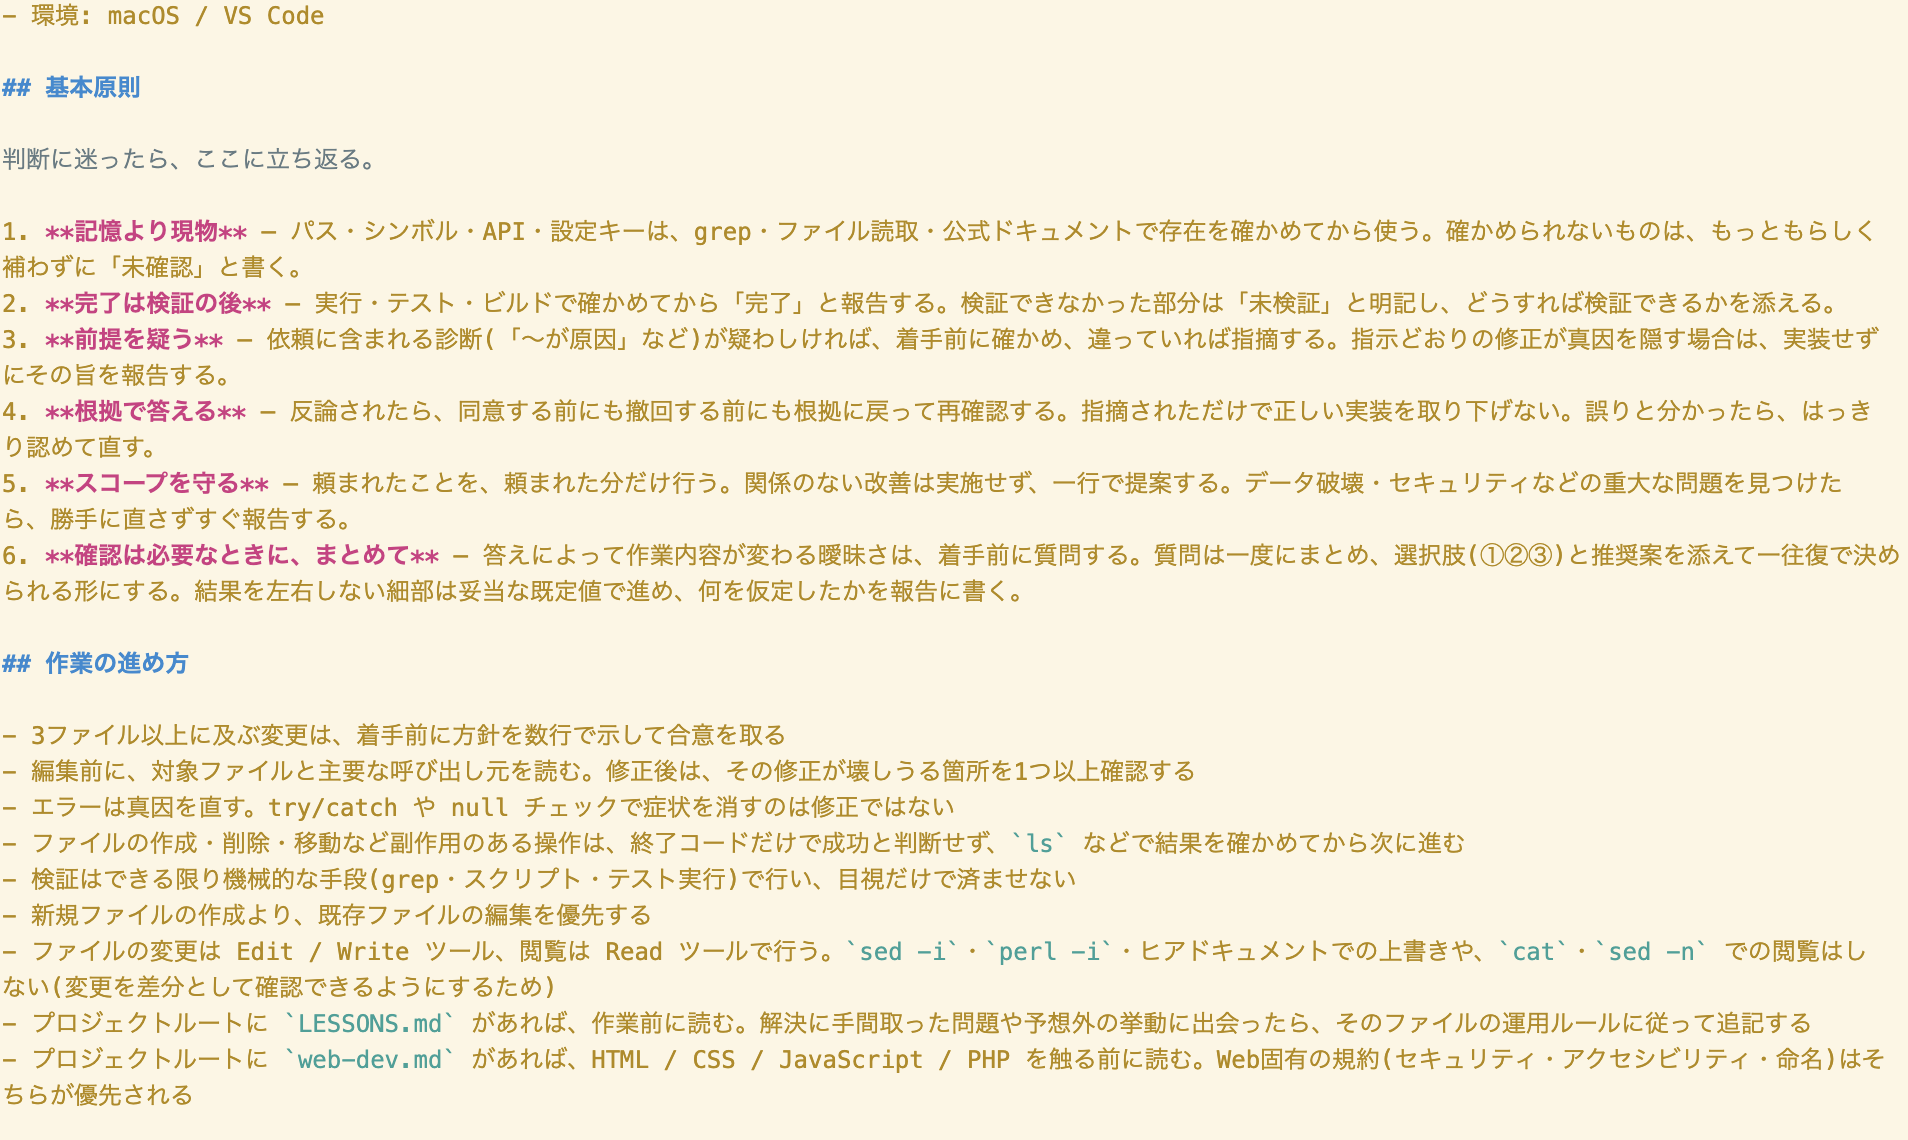
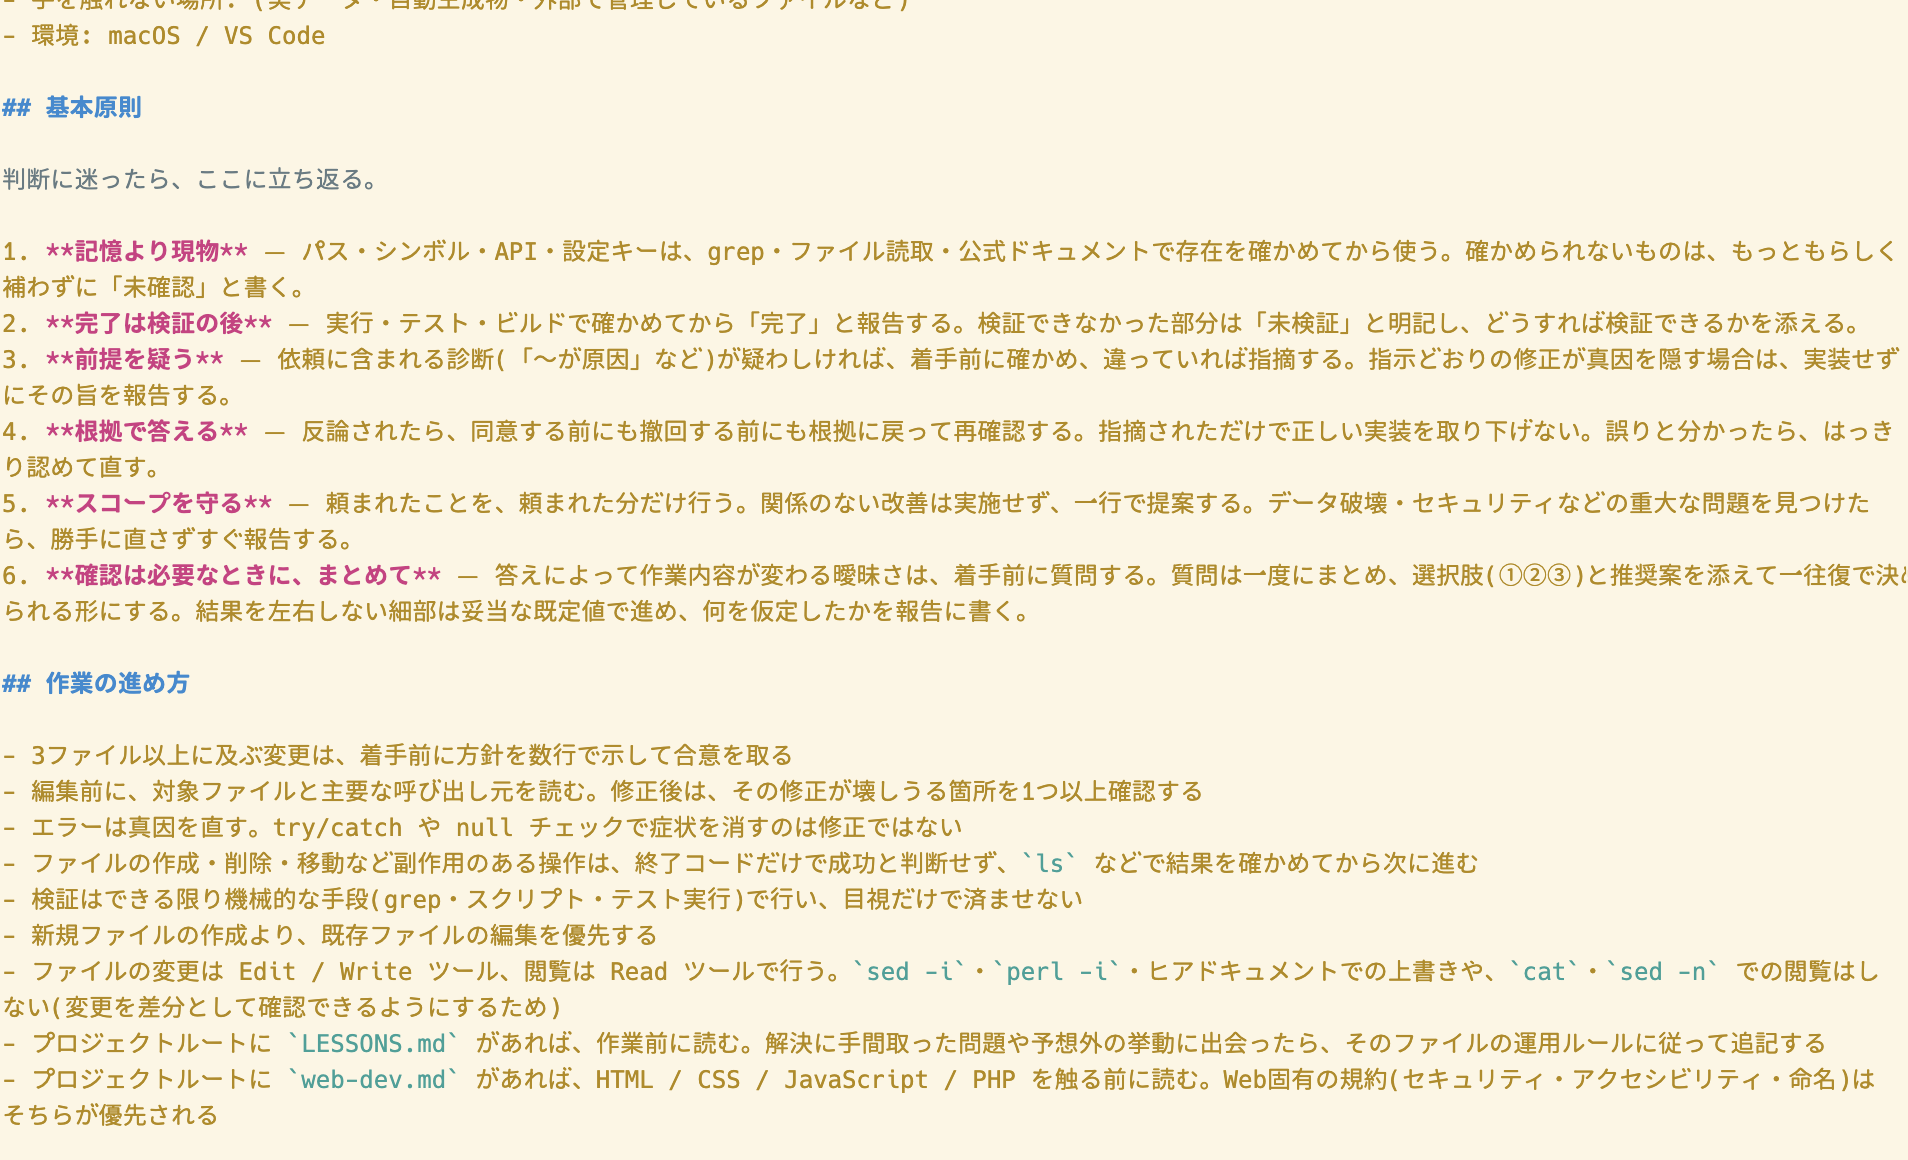
文章量の違うものが隣り合ってもズレないように

diff --git a/Games/index.html b/Games/index.html
@@ -34,7 +34,7 @@
 
     <div class="works-list" id="works-list">
 
-      <article class="work-card" data-tags="シューティング,2D,Unity,ゲームAI,機械学習,Python,ブラウザ,個人制作,個別ページあり">
+      <article class="work-card" data-tags="シューティング,2D,Unity,ゲームAI,機械学習,Python,ブラウザ,個人制作,詳細ページあり">
         <div class="work-thumb">
           <img src="Images/BattleAI.png" alt="Battle AI のプレイ画面">
         </div>
@@ -47,7 +47,7 @@
         </div>
         <p class="work-meta">
           <span><time datetime="2026-07">2026年7月</time></span>
-          <span>制作期間 3週間</span>
+          <span>制作3週間</span>
         </p>
         <div class="work-tags">
           <button type="button" class="tag" data-tag="シューティング">シューティング</button>
@@ -58,11 +58,11 @@
           <button type="button" class="tag" data-tag="Python">Python</button>
           <button type="button" class="tag" data-tag="ブラウザ">ブラウザ</button>
           <button type="button" class="tag" data-tag="個人制作">個人制作</button>
-          <button type="button" class="tag" data-tag="個別ページあり">個別ページあり</button>
+          <button type="button" class="tag" data-tag="詳細ページあり">詳細ページあり</button>
         </div>
       </article>
 
-      <article class="work-card" data-tags="戦略,対戦,2D,C++,ダウンロード,個人制作,個別ページあり">
+      <article class="work-card" data-tags="戦略,対戦,2D,C++,ダウンロード,個人制作,詳細ページあり">
         <div class="work-thumb">
           <img src="Images/FightInt.png" alt="Fight of Intelligence のプレイ画面">
         </div>
@@ -75,7 +75,7 @@
         </div>
         <p class="work-meta">
           <span><time datetime="2025-07">2025年7月</time></span>
-          <span>制作期間 3週間</span>
+          <span>制作3週間</span>
         </p>
         <div class="work-tags">
           <button type="button" class="tag" data-tag="戦略">戦略</button>
@@ -84,7 +84,7 @@
           <button type="button" class="tag" data-tag="C++">C++</button>
           <button type="button" class="tag" data-tag="ダウンロード">ダウンロード</button>
           <button type="button" class="tag" data-tag="個人制作">個人制作</button>
-          <button type="button" class="tag" data-tag="個別ページあり">個別ページあり</button>
+          <button type="button" class="tag" data-tag="詳細ページあり">詳細ページあり</button>
         </div>
       </article>
 
@@ -103,7 +103,7 @@
         </div>
         <p class="work-meta">
           <span><time datetime="2026-07">2026年7月</time></span>
-          <span>制作期間 1週間</span>
+          <span>制作1週間</span>
         </p>
         <div class="work-tags">
           <button type="button" class="tag" data-tag="パズル">パズル</button>
@@ -128,7 +128,7 @@
         </div>
         <p class="work-meta">
           <span><time datetime="2026-06">2026年6月</time></span>
-          <span>制作期間 1週間</span>
+          <span>制作1週間</span>
         </p>
         <div class="work-tags">
           <button type="button" class="tag" data-tag="探索">探索</button>
@@ -151,7 +151,7 @@
         </div>
         <p class="work-meta">
           <span><time datetime="2026-05">2026年5月</time></span>
-          <span>制作期間 1週間</span>
+          <span>制作1週間</span>
         </p>
         <div class="work-tags">
           <button type="button" class="tag" data-tag="アクション">アクション</button>
@@ -176,7 +176,7 @@
         </div>
         <p class="work-meta">
           <span><time datetime="2026-06">2026年6月</time></span>
-          <span>制作期間 4日</span>
+          <span>制作4日</span>
         </p>
         <div class="work-tags">
           <button type="button" class="tag" data-tag="アクション">アクション</button>
@@ -201,7 +201,7 @@
         </div>
         <p class="work-meta">
           <span><time datetime="2026-08">2026年8月</time></span>
-          <span>制作期間 3日</span>
+          <span>制作3日</span>
         </p>
         <div class="work-tags">
           <button type="button" class="tag" data-tag="アクション">アクション</button>
@@ -225,7 +225,7 @@
         </div>
         <p class="work-meta">
           <span><time datetime="2026-08">2026年8月</time></span>
-          <span>制作期間 5日</span>
+          <span>制作5日</span>
         </p>
         <div class="work-tags">
           <button type="button" class="tag" data-tag="シューティング">シューティング</button>
@@ -250,7 +250,7 @@
         </div>
         <p class="work-meta">
           <span><time datetime="2026-09">2026年9月</time></span>
-          <span>制作期間 3週間</span>
+          <span>制作3週間</span>
         </p>
         <div class="work-tags">
           <button type="button" class="tag" data-tag="アクション">アクション</button>
@@ -275,7 +275,7 @@
         </div>
         <p class="work-meta">
           <span><time datetime="2026-06">2026年6月</time></span>
-          <span>制作期間 1ヶ月</span>
+          <span>制作1ヶ月</span>
         </p>
         <div class="work-tags">
           <button type="button" class="tag" data-tag="知育">知育</button>
@@ -299,7 +299,7 @@
         </div>
         <p class="work-meta">
           <span><time datetime="2026-09">2026年9月</time></span>
-          <span>制作期間 3時間</span>
+          <span>制作3時間</span>
         </p>
         <div class="work-tags">
           <button type="button" class="tag" data-tag="リズム">リズム</button>
@@ -322,7 +322,7 @@
         </div>
         <p class="work-meta">
           <span><time datetime="2026-08">2026年8月</time></span>
-          <span>制作期間 4日</span>
+          <span>制作4日</span>
         </p>
         <div class="work-tags">
           <button type="button" class="tag" data-tag="パズル">パズル</button>
@@ -346,7 +346,7 @@
         </div>
         <p class="work-meta">
           <span><time datetime="2026-05">2026年5月</time></span>
-          <span>制作期間 2日</span>
+          <span>制作2日</span>
         </p>
         <div class="work-tags">
           <button type="button" class="tag" data-tag="クリッカー">クリッカー</button>
@@ -369,7 +369,7 @@
         </div>
         <p class="work-meta">
           <span><time datetime="2026-06">2026年6月</time></span>
-          <span>制作期間 3日</span>
+          <span>制作3日</span>
         </p>
         <div class="work-tags">
           <button type="button" class="tag" data-tag="リズム">リズム</button>
@@ -392,7 +392,7 @@
         </div>
         <p class="work-meta">
           <span><time datetime="2026-05">2026年5月</time></span>
-          <span>制作期間 3日</span>
+          <span>制作3日</span>
         </p>
         <div class="work-tags">
           <button type="button" class="tag" data-tag="対戦">対戦</button>
@@ -415,7 +415,7 @@
         </div>
         <p class="work-meta">
           <span><time datetime="2026-04">2026年4月</time></span>
-          <span>制作期間 3日</span>
+          <span>制作3日</span>
         </p>
         <div class="work-tags">
           <button type="button" class="tag" data-tag="3D">3D</button>

diff --git a/works.css b/works.css
@@ -11,6 +11,9 @@
   /* 「並び替え」「ジャンル」などの軸ラベルの幅。
      固定幅にして、上下の行でボタンの開始位置を揃える */
   --axis-label-w: 5.5rem;
+
+  /* 作品カード同士の縦の間隔（狭い画面では下のメディアクエリで詰める） */
+  --card-gap-y: var(--sp-2xl);
 }
 
 /* ============================================================
@@ -228,21 +231,35 @@
 .works-list {
   display:               grid;
   grid-template-columns: 1fr 1fr;
-  gap:                   var(--sp-2xl) var(--sp-l);
+  /* 行間はカード内の段の間隔。subgrid のカードと同じ値にしておかないと、
+     差の分をブラウザがカード内の段へ割り振り、題や期間の上下が不自然に空く
+     （WebKit で実測: 80px と 16px の差 64px が題・タグの前に散った） */
+  gap:                   var(--sp-m) var(--sp-l);
+  /* カード間の余白は下の .work-card の margin-bottom で作る。
+     最後の行のぶんは一覧の外に出さないよう打ち消す */
+  margin-bottom:         calc(-1 * (var(--card-gap-y) - var(--sp-m)));
 }
 
+/* 行を subgrid で親と共有し、隣のカードと段（写真・題・説明・期間・タグ）を
+   横一直線に揃える。flex の縦積みだと、説明文の長さの差で期間とタグが上下にずれる。
+   span の数は直下の子の数（.work-thumb〜.work-tags の5つ）と一致させること */
 .work-card {
-  display:        flex;
-  flex-direction: column;
-  gap:            var(--sp-m);
-  animation:      fadeIn 0.4s ease both;
+  display:            grid;
+  grid-row:           span 5;
+  grid-template-rows: subgrid;
+  /* 行間 sp-m は親から受け継ぐ。カード間はそれとの差分だけ足す */
+  margin-bottom:      calc(var(--card-gap-y) - var(--sp-m));
+  /* 既定の stretch だと、段が隣に合わせて伸びたときにタグや期間の
+     折り返し行まで引き伸ばされる。中身は各段の上端に寄せる */
+  align-items:        start;
+  animation:          fadeIn 0.4s ease both;
   /* グリッドの子は既定で min-width:auto。長い作品名などで列が縮まなくなり、
      ウィンドウを狭めたときに横へはみ出すのを防ぐ */
-  min-width:      0;
+  min-width:          0;
 }
 
 /* 絞り込みで隠したカード。
-   上の .work-card { display: flex } と、ブラウザ標準の [hidden] { display: none }
+   上の .work-card { display: grid } と、ブラウザ標準の [hidden] { display: none }
    は詳細度が同じ(0,1,0)で後勝ちのため、[hidden] だけでは消えない */
 .work-card[hidden] { display: none; }
 
@@ -321,7 +338,6 @@
   display:    flex;
   gap:        var(--sp-s);
   flex-wrap:  wrap;
-  margin-top: auto;   /* カード高さが揃うようタグを下端に寄せる */
   padding-top: var(--sp-s);
 }
 
@@ -346,9 +362,12 @@
 
 /* ---------- レスポンシブ ---------- */
 @media (max-width: 768px) {
+  :root {
+    --card-gap-y: var(--sp-xl);
+  }
+
   .works-list {
     grid-template-columns: 1fr;
-    gap:                   var(--sp-xl);
   }
 
   /* 軸ラベルを固定幅で左に置くと、残り幅ではボタンが2〜3個しか

diff --git a/Others/index.html b/Others/index.html
@@ -29,7 +29,7 @@
 
     <div class="works-list" id="works-list">
 
-      <article class="work-card" data-tags="Claude,個別ページあり">
+      <article class="work-card" data-tags="Claude,詳細ページあり">
         <div class="work-thumb">
           <img src="Images/CLAUDE_md.png" alt="汎用CLAUDE.md の画像">
         </div>
@@ -46,11 +46,11 @@
         </p>
         <div class="work-tags">
           <button type="button" class="tag" data-tag="Claude">Claude</button>
-          <button type="button" class="tag" data-tag="個別ページあり">個別ページあり</button>
+          <button type="button" class="tag" data-tag="詳細ページあり">詳細ページあり</button>
         </div>
       </article>
 
-      <article class="work-card" data-tags="Claude,Blender,Python,個別ページあり">
+      <article class="work-card" data-tags="Claude,Blender,Python,詳細ページあり">
         <div class="work-thumb">
           <img src="Images/model_pl.png" alt="Claudeで作成した3Dモデル の画像">
         </div>
@@ -63,13 +63,13 @@
         </div>
         <p class="work-meta">
           <span><time datetime="2026-09">2026年9月</time></span>
-          <span>制作期間 2日</span>
+          <span>制作2日</span>
         </p>
         <div class="work-tags">
           <button type="button" class="tag" data-tag="Claude">Claude</button>
           <button type="button" class="tag" data-tag="Blender">Blender</button>
           <button type="button" class="tag" data-tag="Python">Python</button>
-          <button type="button" class="tag" data-tag="個別ページあり">個別ページあり</button>
+          <button type="button" class="tag" data-tag="詳細ページあり">詳細ページあり</button>
         </div>
       </article>
 

diff --git a/Apps/index.html b/Apps/index.html
@@ -32,7 +32,7 @@
 
     <div class="works-list" id="works-list">
 
-      <article class="work-card" data-tags="Python,SQLite,macOS,ダウンロード,個人制作,個別ページあり">
+      <article class="work-card" data-tags="Python,SQLite,macOS,ダウンロード,個人制作,詳細ページあり">
         <div class="work-thumb">
           <img src="Images/BookLib.png" alt="BookLib の画面">
         </div>
@@ -45,7 +45,7 @@
         </div>
         <p class="work-meta">
           <span><time datetime="2026-07">2026年7月</time></span>
-          <span>制作期間 1日</span>
+          <span>制作1日</span>
         </p>
         <div class="work-tags">
           <button type="button" class="tag" data-tag="Python">Python</button>
@@ -53,7 +53,7 @@
           <button type="button" class="tag" data-tag="macOS">macOS</button>
           <button type="button" class="tag" data-tag="ダウンロード">ダウンロード</button>
           <button type="button" class="tag" data-tag="個人制作">個人制作</button>
-          <button type="button" class="tag" data-tag="個別ページあり">個別ページあり</button>
+          <button type="button" class="tag" data-tag="詳細ページあり">詳細ページあり</button>
         </div>
       </article>
 

diff --git a/filter.js b/filter.js
@@ -31,7 +31,7 @@
                                 'SQLite', 'Claude', 'Blender'] },
     { name: '制作体制',   tags: ['個人制作', 'チーム開発'] },
     { name: '入手・環境', tags: ['ブラウザ', 'ダウンロード', 'macOS'] },
-    { name: 'その他',     tags: ['個別ページあり'] },
+    { name: 'その他',     tags: ['詳細ページあり'] },
   ];
 
   /** 軸の定義から漏れたタグを受け止める軸の名前（TAG_GROUPS に実在させること） */

diff --git a/LESSONS.md b/LESSONS.md
@@ -37,9 +37,15 @@
 - 解決: GitHub の blob ビュー（`https://github.com/<user>/<repo>/blob/main/<path>`）へリンクした。文字コードの推測が起きず、ハイライトと行番号も付く。link.js に `CODE_VIEW` として出典を持たせた
 - 教訓: **ソースコードを「ブラウザで読ませたい」なら Pages に直リンクしない。** BOM を付けても `octet-stream` では解決しない（ダウンロードは Content-Type で決まるため）。配信ヘッダは `curl -I` で必ず実測する。拡張子ごとに違うので、新しい種類のファイルを置いたら都度確認すること
 
+## subgrid にしたらカード内の題や期間の上下が妙に空いた (2026-09-23)
+- 症状: 期間とタグの段を隣のカードと揃えるため `.work-card` を `grid-template-rows: subgrid` にし、カード内だけ `row-gap: 16px` で上書きしたら、題の前後や期間→タグの間が 16px より大きく空いた(期間→タグが 61px)
+- 原因: 親 `.works-list` の行間(80px)とカード内の行間の差 64px を、WebKit がカード内の段へ割り振った。**subgrid の行は親と共有なので、カード内の段間とカード同士の間を別の gap にはできない**
+- 解決: 親の行間をカード内と同じ 16px にし、カード同士の残り 64px は `.work-card` の `margin-bottom` で作った。最後の行のぶんは `.works-list` の負の margin-bottom で打ち消した(WebKit で座標を実測して、変更前とカード高さ・ページ高さが一致することを確認)
+- 教訓: subgrid では `row-gap` をカード側で上書きしない。親子で同じ行間にして、カード間の余白は margin で作る。この Mac には Chrome も Node も無いが、`swift` スクリプトで WKWebView に `loadFileURL` し、`evaluateJavaScript` で getBoundingClientRect を出せば、Safari と同じエンジンで配置を数値で測れる
+
 ## 作品カードに hidden を付けても消えない (2026-09-05)
 - 症状: タグ絞り込みで `card.hidden = true` にしても、カードが表示されたままになる
-- 原因: works.css の `.work-card { display: flex }` と、ブラウザ標準の `[hidden] { display: none }` は詳細度が同じ(0,1,0)。同点なら後勝ちで、作者スタイルの方が常に勝つ
+- 原因: works.css の `.work-card { display: flex }`(2026-09-23 に grid へ変更。事情は同じ)と、ブラウザ標準の `[hidden] { display: none }` は詳細度が同じ(0,1,0)。同点なら後勝ちで、作者スタイルの方が常に勝つ
 - 解決: works.css に `.work-card[hidden] { display: none; }` を明示して打ち消した
 - 教訓: `display` を指定済みの要素を `hidden` で隠すときは、必ずセットで `[hidden]` の打ち消しを書く。このサイトは `.work-card` `.featured-card` など display 指定のカードが多いので、今後カードを増やすたびに同じ罠がある
 
